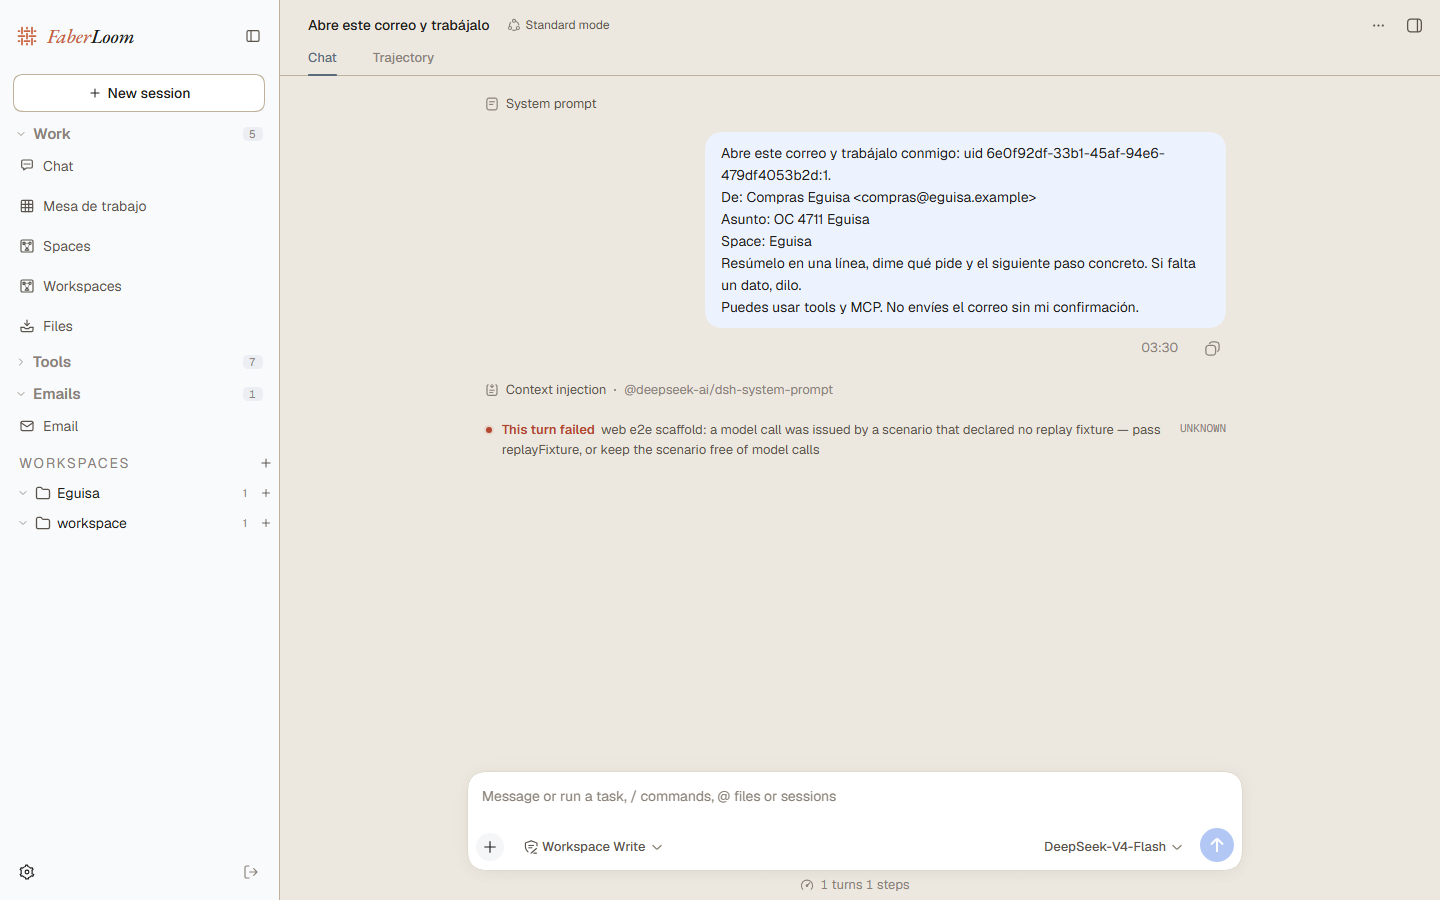
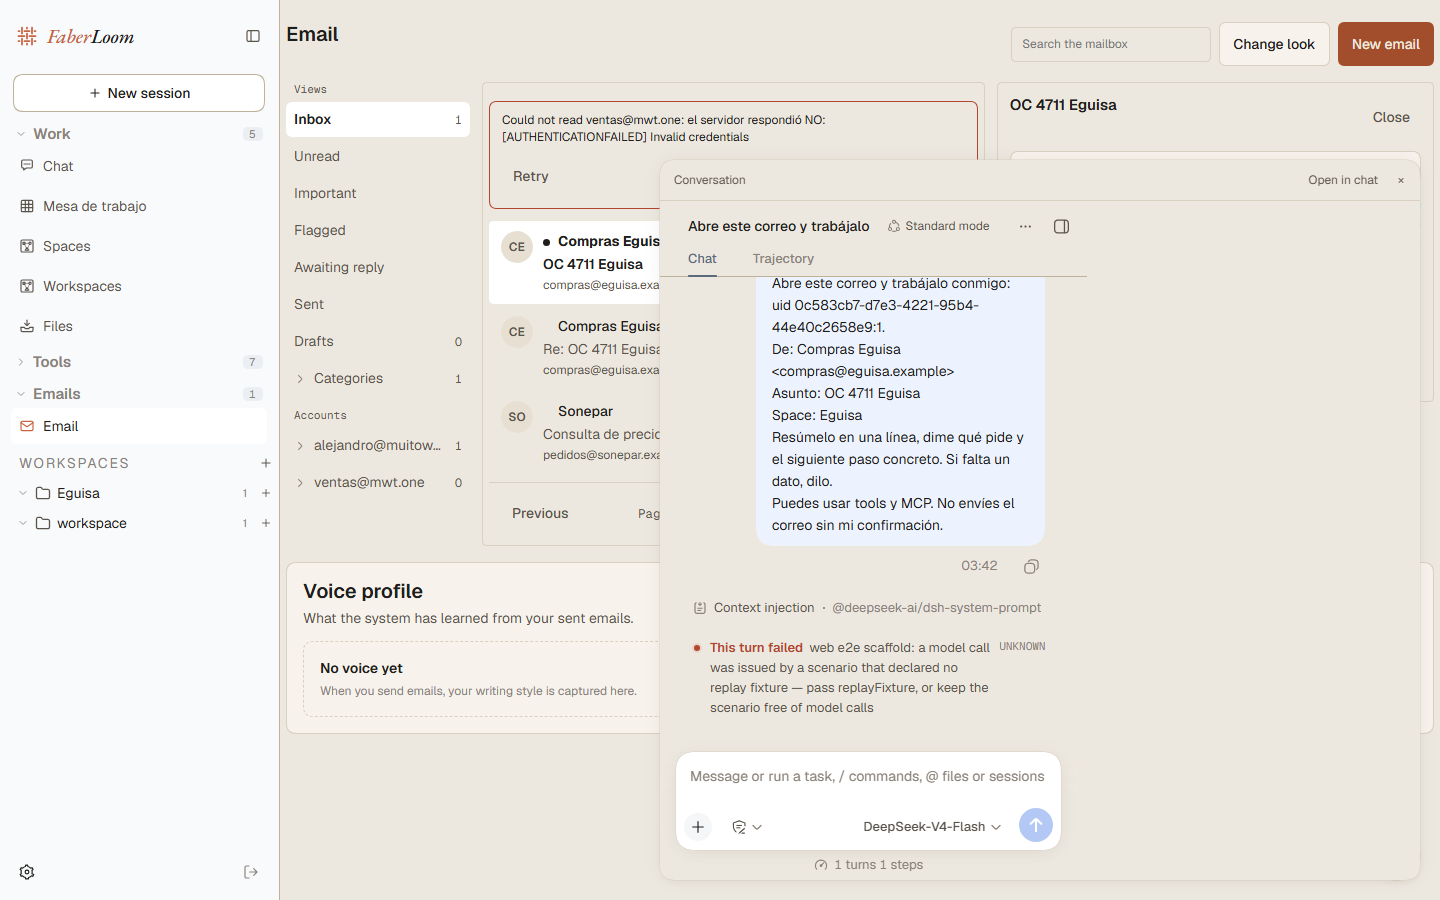
feat(layout): float the native conversation over the mail panel

diff --git a/packages/client/ui-layout/src/client/AppFrame.tsx b/packages/client/ui-layout/src/client/AppFrame.tsx
@@ -193,6 +193,8 @@ export function AppFrame({
   t,
 }: AppFrameProps) {
   const layoutInfo = useStore(state => state.layoutInfo)
+  const floatConversation = useStore(state => state.floatConversation)
+  const currentSession = useSessions(state => state.current)
   const rails = useRails(snapshot => snapshot)
   const frameRef = useRef<HTMLDivElement | null>(null)
   const drawerRef = useRef<HTMLDivElement | null>(null)
@@ -375,6 +377,24 @@ export function AppFrame({
       <div className={css.overlayLayer} data-shell-overlay>
         {overlays}
       </div>
+      {floatConversation && currentSession !== undefined && (
+        <section className={css.floatConversation} aria-label={t('float.title')}>
+          <header className={css.floatHeader}>
+            <span className={css.floatTitle}>{t('float.title')}</span>
+            <span className={css.floatActions}>
+              <button type="button" className={css.floatAction}
+                onClick={() => { actions.selectPanel(null); actions.closeFloatConversation() }}>
+                {t('float.promote')}
+              </button>
+              <button type="button" className={css.floatAction} aria-label={t('float.close')}
+                onClick={() => { actions.closeFloatConversation() }}>×</button>
+            </span>
+          </header>
+          <div className={css.floatBody}>
+            {renderSlot('main', {}, { entryKey: 'conversation' })}
+          </div>
+        </section>
+      )}
       {/* The collapsed rail is fixed-width: no resize handle while closed, and
           the overlaid rails below the tablet breakpoint are not resizable. */}
       {inFlow && !sidebarCollapsed && <DragHandle side="sidebar" left={cols.sidebar} onStart={onSidebarStart} onDrag={onSidebarDrag} onEnd={onDragEnd} />}

diff --git a/packages/client/ui-layout/src/client/stores.ts b/packages/client/ui-layout/src/client/stores.ts
@@ -18,6 +18,8 @@ type LayoutState = {
     /** Null selects the Conversation; global panels keep the current Session intact. */
     activePanelId: MainPanelId | null
   }
+  /** Whether the native Conversation is drawn as a floating window over the active panel. */
+  floatConversation: boolean
   layoutInfo: LayoutInfo
 }
 
@@ -57,6 +59,8 @@ type LayoutInfo = {
  */
 type LayoutActions = {
   selectPanel: (draft: LayoutState, panelId: MainPanelId | null) => void
+  openFloatConversation: (draft: LayoutState) => void
+  closeFloatConversation: (draft: LayoutState) => void
   retainMainPanels: (draft: LayoutState, panelIds: readonly string[]) => void
   setSidebar: (draft: LayoutState, px: number) => void
   toggleSidebar: (draft: LayoutState) => void
@@ -79,6 +83,7 @@ export function createLayoutStore(): EngineStoreHandle<LayoutState, LayoutAction
   const handle = defineStore({
     init: (): LayoutState => ({
       panelInfo: { activePanelId: null },
+      floatConversation: false,
       layoutInfo: {
         sidebar: SIDEBAR_DEFAULT,
         viewportWidth: window.innerWidth,
@@ -93,6 +98,13 @@ export function createLayoutStore(): EngineStoreHandle<LayoutState, LayoutAction
     actions: {
       selectPanel: (d, panelId: MainPanelId | null) => {
         d.panelInfo.activePanelId = panelId
+        if (panelId !== null) d.floatConversation = false
+      },
+      openFloatConversation: (d) => {
+        d.floatConversation = true
+      },
+      closeFloatConversation: (d) => {
+        d.floatConversation = false
       },
       retainMainPanels: (d, panelIds: readonly string[]) => {
         if (d.panelInfo.activePanelId !== null && !panelIds.includes(d.panelInfo.activePanelId)) {

diff --git a/packages/client/ui-layout/src/client/AppFrame.module.css b/packages/client/ui-layout/src/client/AppFrame.module.css
@@ -172,6 +172,84 @@
   pointer-events: auto;
 }
 
+/* Native Conversation as a floating window over the active panel. */
+.floatConversation {
+  position: fixed;
+  right: 20px;
+  bottom: 20px;
+  z-index: 50;
+  display: flex;
+  flex-direction: column;
+  width: min(760px, calc(100vw - 32px));
+  height: min(720px, calc(100vh - 32px));
+  overflow: hidden;
+  border: 0;
+  border-radius: 18px;
+  background: var(--dsw-alias-bg-base);
+  --dsw-elevation-stroke-color: var(--dsw-alias-border-l2);
+  box-shadow: var(--dsw-elevation-prominent);
+}
+
+.floatHeader {
+  display: flex;
+  flex: none;
+  align-items: center;
+  justify-content: space-between;
+  gap: 8px;
+  height: 40px;
+  padding: 0 8px 0 14px;
+  border-bottom: 0.5px solid var(--dsw-alias-border-l2);
+}
+
+.floatTitle {
+  color: var(--dsw-alias-label-secondary);
+  font: var(--dsw-font-caption);
+}
+
+.floatActions {
+  display: flex;
+  align-items: center;
+  gap: 4px;
+}
+
+.floatAction {
+  height: 28px;
+  padding: 0 8px;
+  border: 0;
+  border-radius: 8px;
+  background: none;
+  color: var(--dsw-alias-label-secondary);
+  font: var(--dsw-font-caption);
+  cursor: pointer;
+}
+
+.floatAction:hover {
+  background: var(--dsw-alias-interactive-bg-hover);
+  color: var(--dsw-alias-label-primary);
+}
+
+.floatBody {
+  display: flex;
+  flex: 1;
+  min-width: 0;
+  min-height: 0;
+  overflow: hidden;
+}
+
+.floatBody > * {
+  flex: 1;
+  min-width: 0;
+  min-height: 0;
+}
+
+@media (max-width: 820px) {
+  .floatConversation {
+    inset: 8px;
+    width: auto;
+    height: auto;
+  }
+}
+
 @media (prefers-reduced-motion: reduce) {
   .frame,
   .handle,

diff --git a/packages/client/ui-layout/tests/layout-store.client.spec.ts b/packages/client/ui-layout/tests/layout-store.client.spec.ts
@@ -12,6 +12,7 @@ describe('createLayoutStore', () => {
     const { store } = createLayoutStore().create()
     expect(store.getSnapshot()).toEqual({
       panelInfo: { activePanelId: null },
+      floatConversation: false,
       layoutInfo: {
         sidebar: 280,
         viewportWidth: 1920,
@@ -25,8 +26,20 @@ describe('createLayoutStore', () => {
     })
   })
 
-  it('creates independent instances without browser persistence', () => {
-    const write = vi.spyOn(Storage.prototype, 'setItem')
+  it('opens and closes the floating Conversation without changing the panel', () => {
+    const { store, actions } = createLayoutStore().create()
+    actions.openFloatConversation()
+    expect(store.getSnapshot().floatConversation).toBe(true)
+    expect(store.getSnapshot().panelInfo.activePanelId).toBeNull()
+    actions.closeFloatConversation()
+    expect(store.getSnapshot().floatConversation).toBe(false)
+    actions.openFloatConversation()
+    actions.selectPanel('mail' as never)
+    expect(store.getSnapshot().floatConversation).toBe(false)
+    expect(store.getSnapshot().panelInfo.activePanelId).toBe('mail')
+  })
+
+  it('creates independent instances without browser persistence', () => {    const write = vi.spyOn(Storage.prototype, 'setItem')
     const a = createLayoutStore().create()
     const b = createLayoutStore().create()
     a.actions.setSidebar(400)

diff --git a/packages/client/ui-layout/src/client/locales.ts b/packages/client/ui-layout/src/client/locales.ts
@@ -2,6 +2,9 @@
 
 /** Simplified Chinese dictionary (the key-set source of truth). */
 export const zh = {
+  'float.title': '对话',
+  'float.close': '关闭浮动对话',
+  'float.promote': '在聊天中打开',
   'rail.left.open': '显示左侧面板',
   'drawer.dismiss': '关闭导航抽屉',
 } satisfies Record<string, string>
@@ -11,12 +14,18 @@ export type LayoutKey = keyof typeof zh
 
 /** English dictionary, checked complete against the zh key set. */
 export const en = {
+  'float.title': 'Conversation',
+  'float.close': 'Close the floating conversation',
+  'float.promote': 'Open in chat',
   'rail.left.open': 'Show the left panel',
   'drawer.dismiss': 'Close the navigation drawer',
 } satisfies Record<LayoutKey, string>
 
 /** Spanish dictionary, checked complete against the zh key set. */
 export const es = {
+  'float.title': 'Conversación',
+  'float.close': 'Cerrar la conversación flotante',
+  'float.promote': 'Abrir en el chat',
   'rail.left.open': 'Mostrar el panel izquierdo',
   'drawer.dismiss': 'Cerrar el panel de navegación',
 } satisfies Record<LayoutKey, string>

diff --git a/packages/client/ui-layout/src/client/service.ts b/packages/client/ui-layout/src/client/service.ts
@@ -32,6 +32,10 @@ export interface ILayout {
    * @throws if the selected main key is not registered; preserves the current selection.
    */
   selectPanel(panelId: MainPanelId | null): void
+  /** Draw the current Conversation as a floating window over the active panel. */
+  openFloatConversation(): void
+  /** Hide the floating Conversation window. */
+  closeFloatConversation(): void
   /**
    * Start an asynchronous navigation, superseding any earlier pending navigation.
    * @returns a signal aborted by the next navigation or layout disposal; check it before committing UI state.
@@ -71,6 +75,16 @@ export class LayoutController implements ILayout {
     }
     this.navigation.abort()
     this.panels.selectPanel(panelId)
+  }
+
+  /** Draw the current Conversation as a floating window. */
+  openFloatConversation(): void {
+    this.panels.openFloatConversation()
+  }
+
+  /** Hide the floating Conversation window. */
+  closeFloatConversation(): void {
+    this.panels.closeFloatConversation()
   }
 
   /** @returns the new pending navigation's cancellation signal. */

diff --git a/packages/client/ui-faberloom/src/client/index.ts b/packages/client/ui-faberloom/src/client/index.ts
@@ -185,7 +185,7 @@ function registerSurface(ctx: ClientContext): void {
         const toRef = (id: string): Parameters<typeof ctx.sessions.open>[0] => id as never
         if (known !== null && ctx.sessions.binding(toRef(known))?.session !== undefined) {
           ctx.sessions.open(toRef(known))
-          ctx.layout.selectPanel(null)
+          ctx.layout.openFloatConversation()
           return
         }
         void (async () => {
@@ -212,7 +212,7 @@ function registerSurface(ctx: ClientContext): void {
             }
           }
           ctx.sessions.open(toRef(sessionId))
-          ctx.layout.selectPanel(null)
+          ctx.layout.openFloatConversation()
         })().catch((error: unknown) => {
           // The email stays open; the next click retries the session.
           void error

diff --git a/apps/web/tests/email-panel.e2e.ts b/apps/web/tests/email-panel.e2e.ts
@@ -389,7 +389,8 @@ describe('web e2e: Email panel and task entries', () => {
     // The dock fades in; capture the settled surface, not mid-animation.
     await page.waitForTimeout(300)
     await page.screenshot({ path: `${SHOTS}email-assistant.png`, fullPage: false })
-    // Return to the mail panel for the next case.
+    // Return to the mail panel for the next case; the float is one click away.
+    await page.getByRole('button', { name: /close the floating conversation|cerrar la conversación flotante/iu }).click()
     await openMail()
     // The rail opens on demand, and the reader groups the reply under its thread.
     await page.getByRole('button', { name: /^alejandro@/iu }).click()

diff --git a/packages/client/ui-workspace/tests/workspaces-service.client.spec.ts b/packages/client/ui-workspace/tests/workspaces-service.client.spec.ts
@@ -209,6 +209,7 @@ function bench(options: BenchOptions = {}) {
   const ctx = new Context()
   const layout = new LayoutController({
     selectPanel: vi.fn(), retainMainPanels: vi.fn(),
+    openFloatConversation: vi.fn(), closeFloatConversation: vi.fn(),
     setSidebar: vi.fn(), toggleSidebar: vi.fn(), setViewportWidth: vi.fn(),
     setRightbar: vi.fn(), openRightbar: vi.fn(), closeRightbar: vi.fn(),
   }, () => true)

diff --git a/packages/client/ui-sidebar/tests/panel-list.client.spec.tsx b/packages/client/ui-sidebar/tests/panel-list.client.spec.tsx
@@ -42,6 +42,8 @@ async function bench(collapsed = false) {
     beginNavigation: vi.fn(() => new AbortController().signal),
     toggleSidebar: vi.fn(),
     selectPanel: vi.fn((activePanelId: MainPanelId | null) => { runtime.panelInfo.set({ activePanelId }) }),
+    openFloatConversation: vi.fn(),
+    closeFloatConversation: vi.fn(),
     openRightbar: vi.fn(),
     closeRightbar: vi.fn(),
   } satisfies ILayout

diff --git a/packages/client/ui-layout/tests/service.client.spec.ts b/packages/client/ui-layout/tests/service.client.spec.ts
@@ -5,6 +5,8 @@ import type { MainPanelId, PanelActions } from '../src/client/service.ts'
 function fakePanels(): PanelActions {
   return {
     selectPanel: vi.fn(),
+    openFloatConversation: vi.fn(),
+    closeFloatConversation: vi.fn(),
     retainMainPanels: vi.fn(),
     setSidebar: vi.fn(),
     toggleSidebar: vi.fn(),
